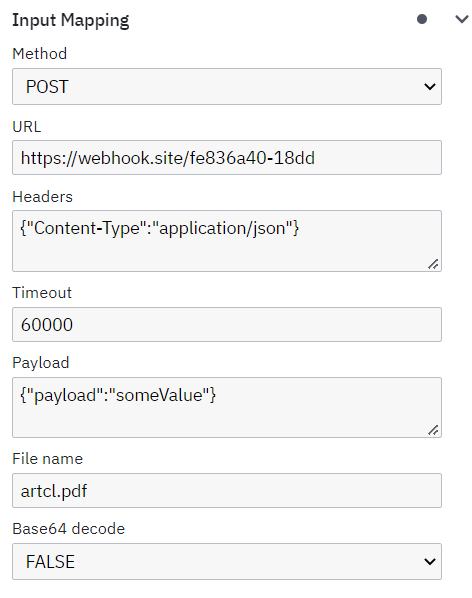
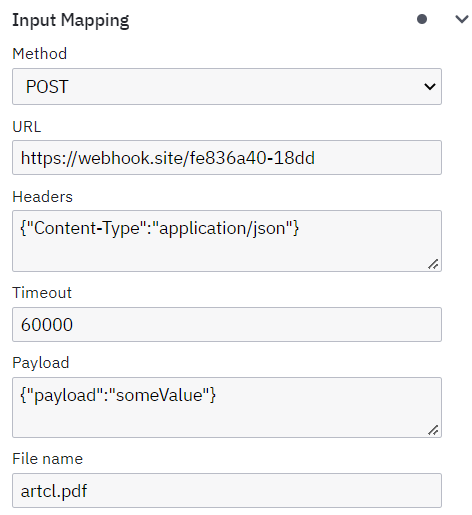
UPD: decoder will be added in another delegate

diff --git a/src/main/java/com/codot/camundaconnectors/http/HttpFunction.java b/src/main/java/com/codot/camundaconnectors/http/HttpFunction.java
@@ -33,7 +33,6 @@ public class HttpFunction implements JavaDelegate {
 		int timeout = Integer.parseInt((String) delegateExecution.getVariable("timeout"));
 		String payload = (String) delegateExecution.getVariable("payload");
 		String fileName = (String) delegateExecution.getVariable("response_file_name");
-		boolean needDecode = Boolean.parseBoolean((String) delegateExecution.getVariable("base64decode"));
 
 		if (debug)
 			startEvent(
@@ -41,7 +40,6 @@ public class HttpFunction implements JavaDelegate {
 					url,
 					payload,
 					(String) delegateExecution.getVariable("headers"),
-					needDecode,
 					fileName,
 					delegateExecution
 			);
@@ -60,7 +58,7 @@ public class HttpFunction implements JavaDelegate {
 
 		Method method;
 		switch ((String) delegateExecution.getVariable("method")) {
-			case "GET": method = Connection.Method.GET; break;
+			case "GET": method = Connection.Method.GET; payload = null; break;
 			case "POST": method = Connection.Method.POST; break;
 			case "PUT": method = Connection.Method.PUT; break;
 			default:
@@ -89,7 +87,6 @@ public class HttpFunction implements JavaDelegate {
 				response_body = response_string;
 			}
 			else {
-				if (needDecode){ response_bytes = Utility.base64Decode(response_bytes); }
 				File file = new File(System.getProperty("java.io.tmpdir"), fileName);
 				new FileOutputStream(file).write(response_bytes);
 				response_file_path = file.getAbsolutePath();
@@ -119,10 +116,10 @@ public class HttpFunction implements JavaDelegate {
 	}
 
 	private void startEvent(String method, String url, String payload, String headers,
-	                        boolean needDecode, String fileName, DelegateExecution delegateExecution){
+	                        String fileName, DelegateExecution delegateExecution){
 		LOGGER.info(Utility.printLog(
 				"{method: " + method + ", URL: " + url + ", payload: " + payload +
-						", headers: " + headers + ", base64Decode: " + needDecode + ", fileName: " + fileName + "}",
+						", headers: " + headers  + ", fileName: " + fileName + "}",
 				delegateExecution));
 	}
 

diff --git a/README.md b/README.md
@@ -55,9 +55,8 @@ Reload the application, and you will be able to assign a template.
   - (only for headers) Send headers as Map: {"Content-Type":"application/json", "Authorization":"your token", "headers":"value", ...}
 - Timeout
   - Integer (ms)
-- File name + base64 decode
+- File name
   - Must always be specified
-  - If you need to decode a file from base64 to UTF-8 select TRUE
   - If the response is not a file, then the response will be written to the **response body**
 
 ### Output data
